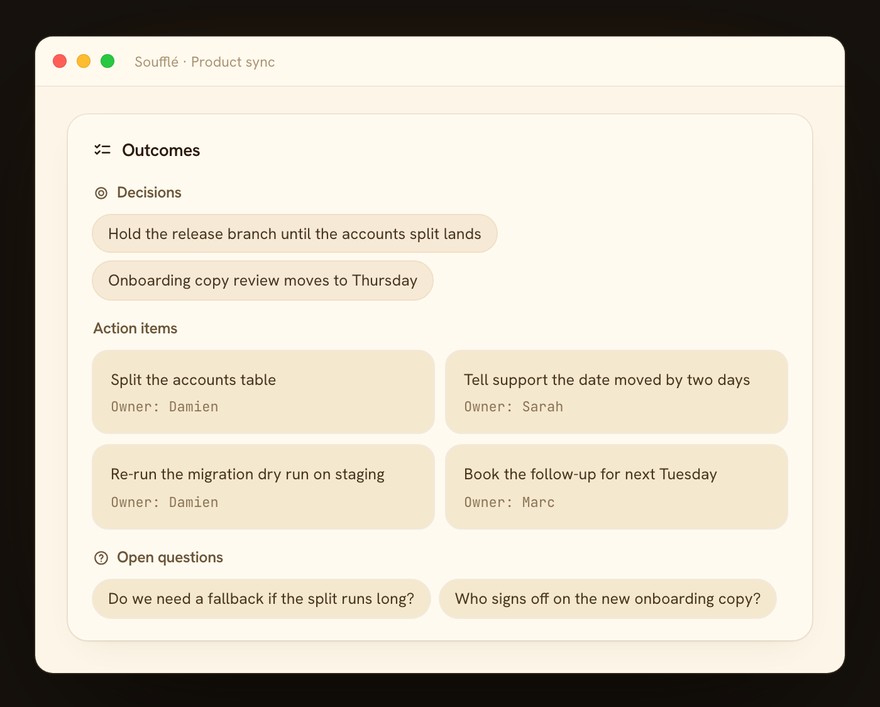
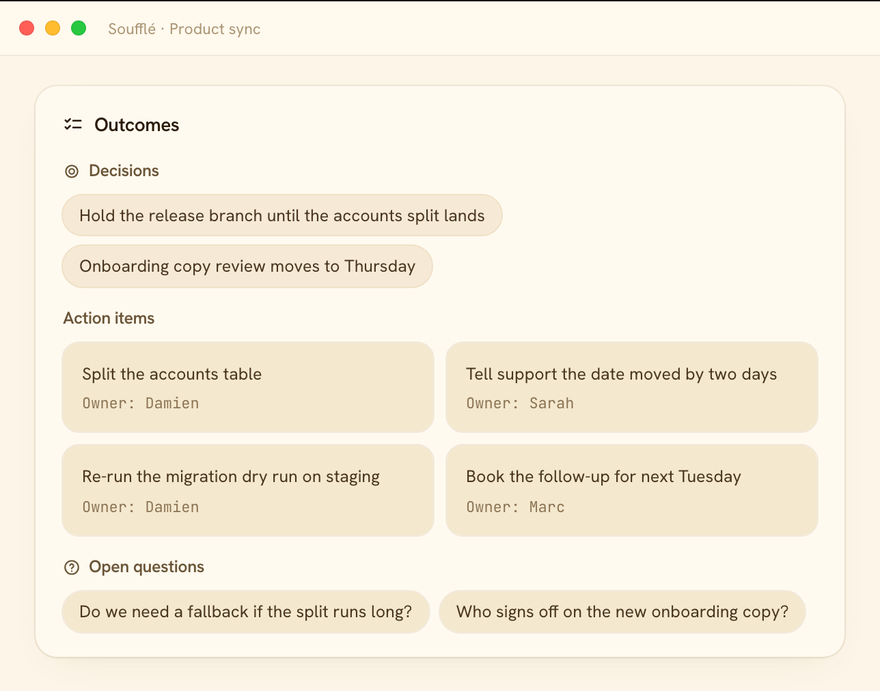
Square off the captures and lead the README with the two main features
The rounded window corners left dark slivers that read as dirt against
GitHub's background, so the window is squared off and fills the frame
with no margin around it.

The README opened on a list of on-device guarantees before saying what
the app does. Meetings and dictation-into-any-app now come first, each
with its own capture; privacy follows rather than leads.

diff --git a/README.md b/README.md
@@ -20,8 +20,9 @@
 
 <p>
   <a href="#download"><strong>Download</strong></a> ·
+  <a href="#meetings-that-know-who-is-talking">Meetings</a> ·
+  <a href="#dictation-straight-into-the-app-you-are-already-in">Dictation</a> ·
   <a href="#requirements">Requirements</a> ·
-  <a href="#permissions">Permissions</a> ·
   <a href="#speech-models">Speech models</a> ·
   <a href="#build-from-source">Build from source</a>
 </p>
@@ -32,41 +33,44 @@
   <img src="docs/demo/meeting.gif" width="820" alt="Live meeting transcription running fully on-device, separating Me from Them in real time">
 </p>
 
-Everything runs on-device:
+## Meetings that know who is talking
 
-- 🔒 **Fully private.** Transcription, summaries, and audio all stay on your Mac. Nothing is uploaded, and it works offline.
-- 🎙 **Dictation and meetings.** Talk into any app with a global shortcut and auto-paste, or capture a meeting with a live transcript that tells you apart from everyone else.
-- 🧠 **Understand and own.** On-device summaries with decisions and action items, full-text search, and export to Markdown, JSON, or subtitles.
+System-audio capture separates **Me** from **Them** in the live transcript, with no virtual audio device to install. The recording looks after itself: it offers to start when a calendar meeting begins, notices when the meeting seems over and stops on its own after warning you, closes cleanly when the Mac sleeps and offers to resume on wake, and recovers or salvages the session if the engine stalls or the microphone disappears.
 
-## Transcribe
-
-- **Dictation**, from a global shortcut that works anywhere. Press once to start and stop, or bind a push-to-talk key and hold it instead. The text is inserted into whatever app you were using; apps that reject a synthetic paste (terminals, secure fields) can receive simulated keystrokes instead. Optional start/stop sounds confirm the shortcut landed.
-- **Meeting transcription**, with a live transcript and system-audio capture that separates Me from Them, with no virtual audio device to install. Optional audio recording keeps the meeting sound as compact Opus files under a retention policy, replayable with click-to-seek from the transcript.
-- **Hands-off recording lifecycle**: the app offers to start when a calendar meeting begins, detects when the meeting seems over and stops on its own after warning you, closes the recording cleanly when the Mac sleeps and offers to resume it on wake, and recovers or salvages the session if the engine stalls or the microphone disappears.
+- **Live transcript** with editable notes and participants beside it, and full-text search across every word you have ever recorded.
+- **Optional audio**, kept as compact Opus files for 7 days, 30 days or until you delete them, replayable with click-to-seek from any line.
 - **Corrections that stick**: fix a misheard name by hand once and Soufflé keeps that spelling, in a custom dictionary you can also edit yourself.
 
-| Dictate into any app | Your timeline, grouped by day |
-| :---: | :---: |
-| ![Dictation with the transcript as the whole surface, streaming in as you speak](docs/demo/dictation.gif) | ![Home timeline grouping meetings and dictations by day](docs/demo/timeline.png) |
+## Dictation, straight into the app you are already in
 
-## The overlay
-
-Dictation does not open a window. Press the shortcut and a small pill appears above whatever you are working in, then the text lands in the field your cursor was already in. Chat, mail, an editor, a terminal: the pill does not care which, and it is excluded from screen capture, so it never turns up in the meeting you are in.
+Soufflé is not a window you type into. Press the shortcut and a small pill appears above whatever you are working in; when you stop, the text lands in the field your cursor was already in. Chat, mail, an editor, a terminal: the pill does not care which, and it is excluded from screen capture, so it never turns up in the meeting you are in.
 
 <p align="center">
   <img src="docs/demo/overlay.gif" width="820" alt="The pill floating over a chat app: shortcut, dictation, reformulation, and the tidied text landing in the composer">
 </p>
 
-## Understand
+- **Press once to start and stop**, or bind a push-to-talk key and hold it instead.
+- **Insertion that fits the app**: the clipboard and ⌘V, simulated typing for terminals and secure fields that reject a synthetic paste, or a direct write through Accessibility.
+- **Polish before it lands** (optional): a local LLM pass tidies the phrasing, with editable prompt templates — clean up, professional email, bullet points, remove fillers.
+- **Optional start/stop sounds**, so you know the shortcut landed.
 
-- **Meeting summaries**, generated on-device by Apple Intelligence on macOS 26 or newer, with nothing to install, and otherwise by a local [Ollama](https://ollama.com/).
-- **Structured outcomes**: decisions, action items with owners, and open questions extracted alongside the summary.
-- **Dictation polish** (optional): a local LLM pass cleans up dictated text with editable prompt templates before it is inserted. Same provider as the summaries.
-- **Full-text search** across every transcript and dictation entry.
+| The dictation view | Your timeline, grouped by day |
+| :---: | :---: |
+| ![Dictation with the transcript as the whole surface, streaming in as you speak](docs/demo/dictation.gif) | ![Home timeline grouping meetings and dictations by day](docs/demo/timeline.png) |
+
+## Summaries you can act on
+
+Generated on-device by Apple Intelligence on macOS 26 or newer, with nothing to install, and otherwise by a local [Ollama](https://ollama.com/). Alongside the prose summary, Soufflé pulls out the decisions, the action items with their owners, and the questions nobody answered.
 
 <p align="center">
   <img src="docs/demo/outcomes.png" width="820" alt="Generated decisions, action items with owners, and open questions">
 </p>
+
+## Private by design
+
+- 🔒 **Nothing is uploaded.** Transcription, summaries and audio all stay on your Mac, in one local database you can export or delete whenever you like.
+- ✈ **Works offline.** Once the speech model is on disk, transcription keeps working with the Wi-Fi off.
+- 🙅 **No account, ever.** No sign-up, no subscription, no API key to paste in. Every outbound connection the app makes is listed [below](#what-touches-the-network).
 
 ## Own your data
 
